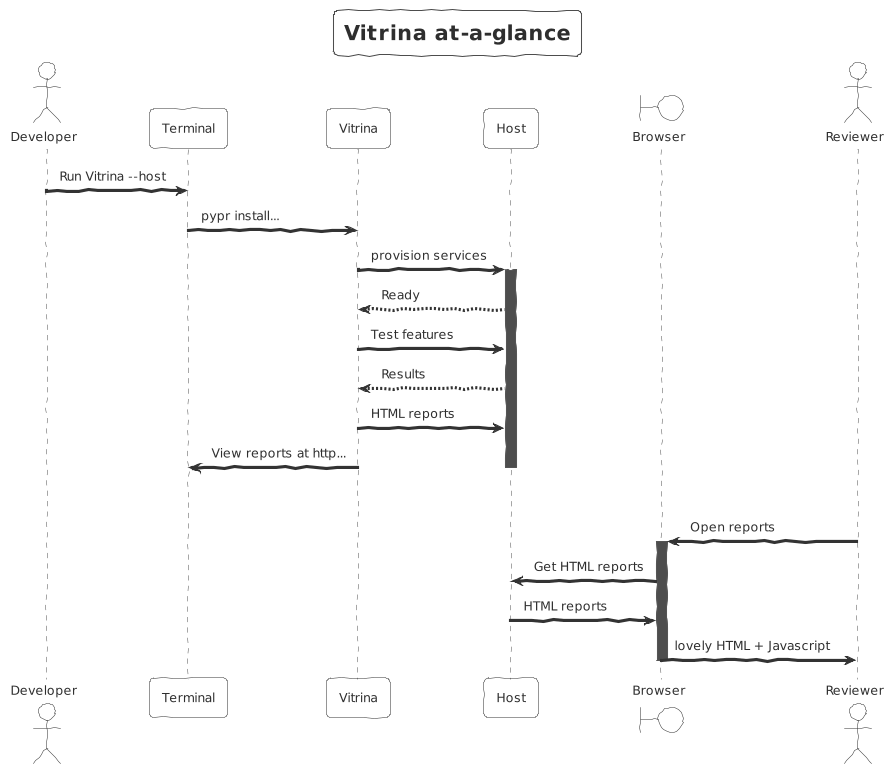
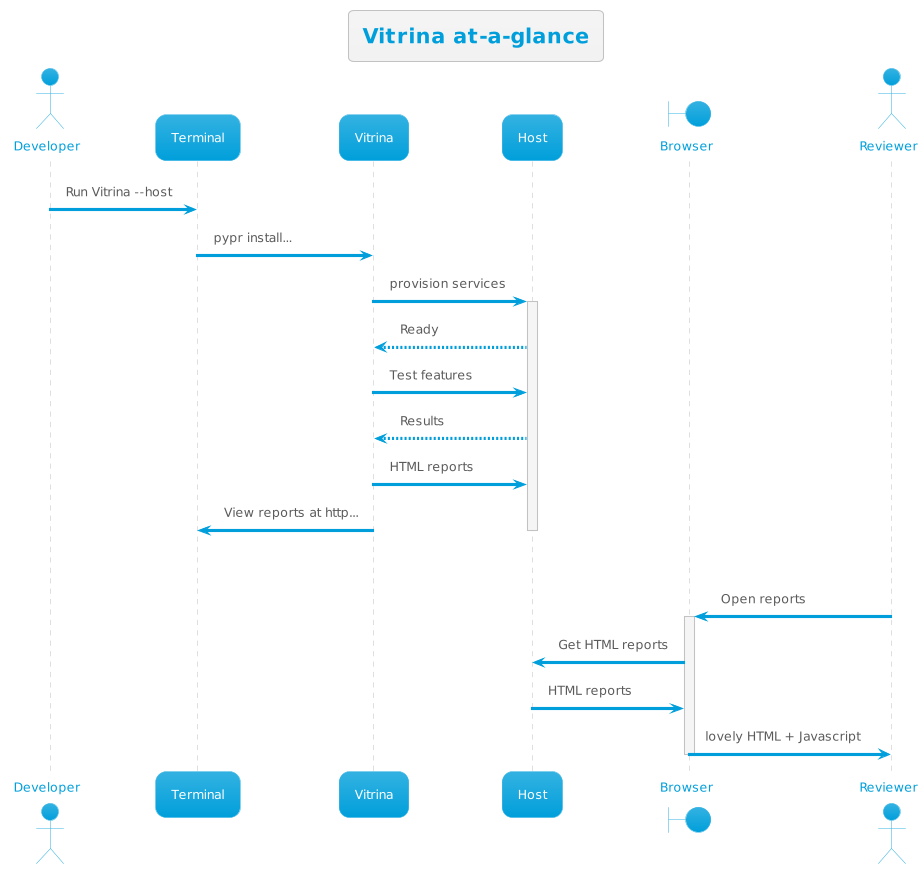
Improve PlantUML sequence diagrams

diff --git a/docs/source/describe/about.rst b/docs/source/describe/about.rst
@@ -2,6 +2,10 @@
 About Vitrina
 =============
 
+.. image:: ../_images/mini_lifecycle.png
+    :scale: 45
+    :alt: A sequence diagram listing the high level transitions of installation, inspection, publishing
+    :align: center
 
 The problem space
 =================
@@ -9,7 +13,7 @@ The problem space
 
 Sometimes it is hard to show off your work. If you're a recent graduate or a seasoned Enterprise developer, you may not have samples
 of your work accessible via the public internet. This is particularly true if your work does not lend itself to snazzy user interfaces.
-In Spanish, the word **vitrina** means "showcase"; specifically the kind you see in department store windows. A great deal of work goes on behind the scenes to make products look appealing and much of the glamour depends on a combination of crafts, such as lighting, perspective, narration, etc.
+In Spanish, the :term:`vitrina` means "showcase"; specifically the kind you see in department store windows. A great deal of work goes on behind the scenes to make products look appealing and much of the glamour depends on a combination of crafts, such as lighting, perspective, narration, etc.
 
 If you manage to set up a site with some examples of your work, you may have to wrap it with work that you may not know as well, and you may not be very good at.
 In that case, you risk giving the wrong impression when folks are distracted by some ancient CSS, or a TLS certificate that just doesn't behave properly.
@@ -213,3 +217,31 @@ For now, we would like to be able to associate aspects of a feature with the dec
     - new product managers don't duplicate prior efforts.
     - so that developers can understand dependencies more quickly
     - decisions	 can be aggregated and reasoned about as category with its own properties
+
+
+Structure of Record Architecture Decisions
+-------------------------------------------
+
+Status
+------
+
+Accepted
+
+Context
+-------
+
+We would like to keep a historical record on the architectural
+decisions we make with this app as it evolves over time.
+
+Decision
+--------
+
+We will use Architecture Decision Records, as described by
+    * Michael Nygard in `Documenting Architecture Decisions`_
+    * https://resources.sei.cmu.edu/asset_files/Presentation/2017_017_001_497746.pdf
+    * https://github.com/npryce/adr-tools/tree/master/doc/adr
+
+
+.. Links and Substitutions...
+
+.. _Documenting Architecture Decisions: http://thinkrelevance.com/blog/2011/11/15/documenting-architecture-decisions

diff --git a/docs/source/reference/glossary.rst b/docs/source/reference/glossary.rst
@@ -61,6 +61,9 @@ Terms & concepts
     Unit tests
         Explores the question "Does this change work as expected"
 
+    Vitrina
+        Spanish word for showcase or shop window. It is also the name of a useful set of tests and reports for helping infrastructure developers to show their work.
+
 .. Substitutions
 
 .. |about_APM| replace:: https://docs.datadoghq.com/tracing/visualization/#pagetitle

diff --git a/docs/source/describe/index.rst b/docs/source/describe/index.rst
@@ -3,7 +3,7 @@ About Vitrina
 =============
 
 
-.. image:: ../_images/mini_lifecycle.svg
+.. image:: ../_images/mini_lifecycle.png
     :scale: 45
     :alt: A sequence diagram listing the high level transitions of installation, inspection, publishing
     :align: center
